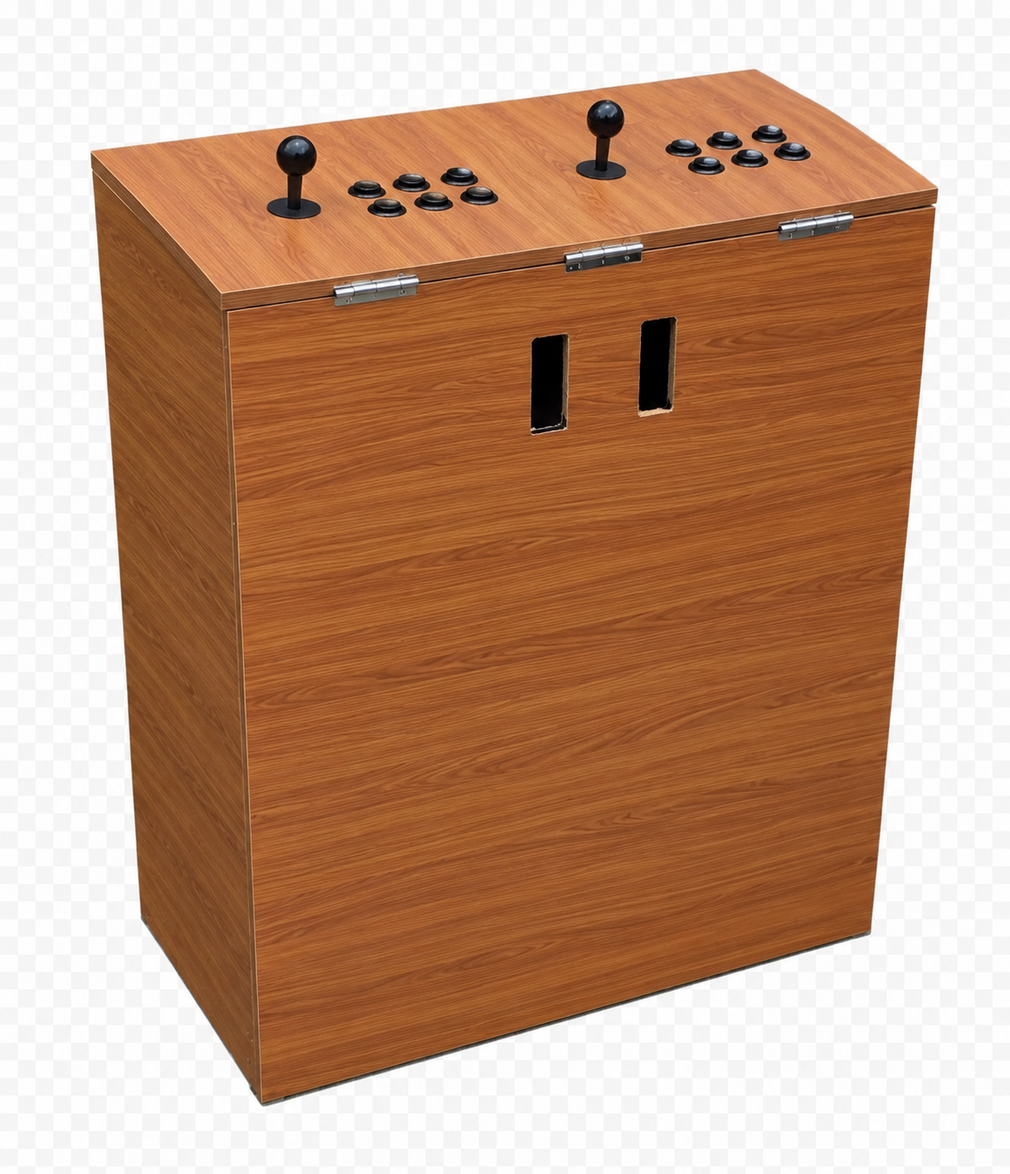
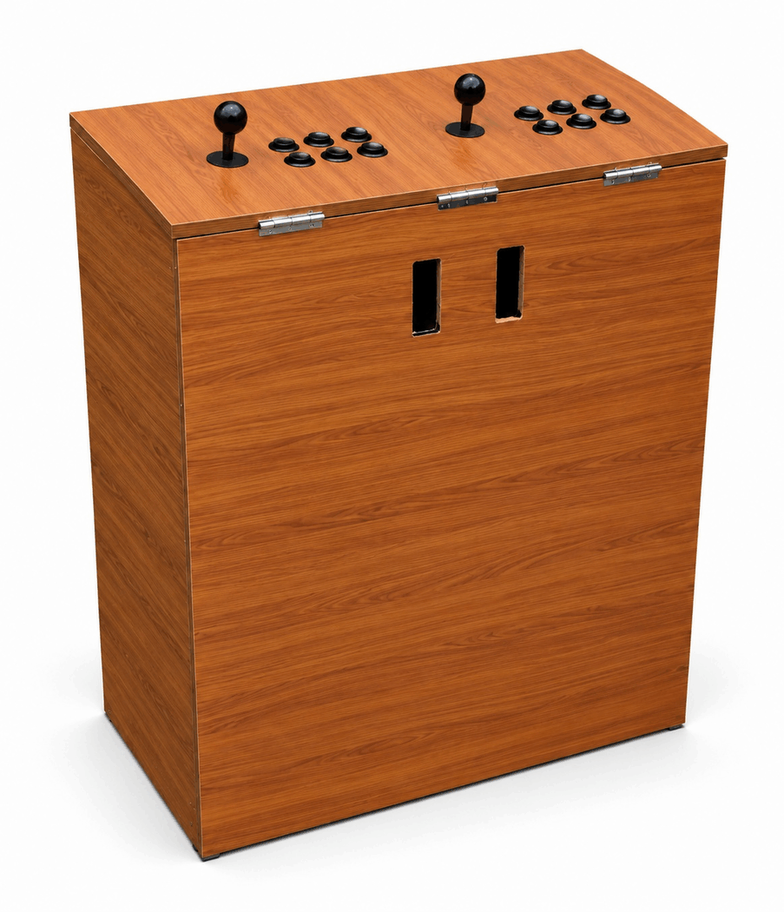
Publish themed mascot outfits and clean arcade box photos

diff --git a/index.html b/index.html
@@ -1197,7 +1197,7 @@ img,canvas{
 
 </style>
 
-<script src="store-navigation.js"></script><script src="cpu-images.js"></script><script src="category-data.js?v=20261120-catalog-clean"></script><link rel="stylesheet" href="category-pages.css?v=20261120-game-styles"><style id="gp-typed-quantity-css">
+<script src="store-navigation.js"></script><script src="cpu-images.js"></script><script src="category-data.js?v=20261120-catalog-clean"></script><link rel="stylesheet" href="category-pages.css?v=20261120-product-ads"><style id="gp-typed-quantity-css">
 #products .product .qty,#products .product:not(.has-variants) .qty,#products .product .variant-row .qty{width:124px!important;min-width:124px!important;max-width:124px!important;display:flex!important;flex-wrap:nowrap!important;align-items:center!important;justify-content:space-between!important;gap:3px!important}
 #products .product .qty input.gp-typed-quantity{appearance:textfield;-moz-appearance:textfield;box-sizing:border-box!important;width:50px!important;min-width:42px!important;max-width:50px!important;height:32px!important;flex:1 1 auto!important;margin:0!important;padding:2px!important;text-align:center;font-size:14px!important;font-weight:800!important;border:1px solid #9ca3af!important;border-radius:8px!important;background:#fff!important;color:#111827!important;line-height:1!important}
 #products .product .qty input.gp-typed-quantity::-webkit-inner-spin-button,#products .product .qty input.gp-typed-quantity::-webkit-outer-spin-button{-webkit-appearance:none;margin:0}
@@ -4389,5 +4389,5 @@ document.getElementById("optionalGameModal")?.addEventListener("click",function(
 
 
 
-<script src="setup-data.js?v=20261101-one-batocera-1999"></script><script src="setup-engine.js?v=20261101-sandisk-ultra-supplied-photo"></script><script src="stock-rules.js?v=20261120-stock-order"></script><script src="stock-ui.js?v=20261120-stock-final"></script><script src="configured-cart.js?v=20261101-batocera-1999"></script><script src="category-pages.js?v=20261120-game-styles"></script><script src="site-navigation.js?v=20261115-responsive-cards"></script><script src="shared-store.js?v=20261115-responsive-cards"></script><script src="https://gamesplanet13.github.io/arcade-accessories-/ps2-style-footer.js?v=20261016-ps2-view"></script></body>
+<script src="setup-data.js?v=20261101-one-batocera-1999"></script><script src="setup-engine.js?v=20261101-sandisk-ultra-supplied-photo"></script><script src="stock-rules.js?v=20261120-stock-order"></script><script src="stock-ui.js?v=20261120-stock-final"></script><script src="configured-cart.js?v=20261101-batocera-1999"></script><script src="category-pages.js?v=20261120-product-ads"></script><script src="site-navigation.js?v=20261115-responsive-cards"></script><script src="shared-store.js?v=20261115-responsive-cards"></script><script src="https://gamesplanet13.github.io/arcade-accessories-/ps2-style-footer.js?v=20261016-ps2-view"></script></body>
 </html>

diff --git a/arcade-box.html b/arcade-box.html
@@ -1197,7 +1197,7 @@ img,canvas{
 
 </style>
 
-<script src="store-navigation.js"></script><script src="cpu-images.js"></script><script src="category-data.js?v=20261120-catalog-clean"></script><link rel="stylesheet" href="category-pages.css?v=20261120-game-styles"><style id="compact-variant-final-v3">
+<script src="store-navigation.js"></script><script src="cpu-images.js"></script><script src="category-data.js?v=20261120-catalog-clean"></script><link rel="stylesheet" href="category-pages.css?v=20261120-product-ads"><style id="compact-variant-final-v3">
 #products .product .variant-row{display:grid!important;grid-template-columns:minmax(0,1fr) 96px!important;grid-template-rows:auto!important;align-items:center!important;gap:6px!important;padding:6px!important;margin:0!important;min-height:44px!important;height:auto!important}
 #products .product .variant-label{display:grid!important;grid-template-columns:32px minmax(0,1fr)!important;gap:7px!important;align-items:center!important;min-width:0!important;width:100%!important}
 #products .product .variant-thumb{position:static!important;width:32px!important;height:32px!important;max-width:32px!important;margin:0!important;object-fit:contain!important}
@@ -4342,5 +4342,5 @@ document.getElementById("optionalGameModal")?.addEventListener("click",function(
 
 
 
-<script src="setup-data.js?v=20261101-storage-optional"></script><script src="setup-engine.js?v=20261101-sandisk-ultra-supplied-photo"></script><script src="stock-rules.js?v=20261120-stock-order"></script><script src="stock-ui.js?v=20261120-stock-order"></script><script src="configured-cart.js?v=20261101-batocera-1999"></script><script src="category-pages.js?v=20261120-game-styles"></script><script src="site-navigation.js?v=20261102-ps2fmcb-simple"></script><script src="https://gamesplanet13.github.io/arcade-accessories-/ps2-style-footer.js?v=20261016-ps2-view"></script></body>
+<script src="setup-data.js?v=20261101-storage-optional"></script><script src="setup-engine.js?v=20261101-sandisk-ultra-supplied-photo"></script><script src="stock-rules.js?v=20261120-stock-order"></script><script src="stock-ui.js?v=20261120-stock-order"></script><script src="configured-cart.js?v=20261101-batocera-1999"></script><script src="category-pages.js?v=20261120-product-ads"></script><script src="site-navigation.js?v=20261102-ps2fmcb-simple"></script><script src="https://gamesplanet13.github.io/arcade-accessories-/ps2-style-footer.js?v=20261016-ps2-view"></script></body>
 </html>

diff --git a/new.html b/new.html
@@ -1197,7 +1197,7 @@ img,canvas{
 
 </style>
 
-<link rel="stylesheet" href="storefront.css"><script src="store-navigation.js"></script><script src="cpu-images.js"></script><script src="category-data.js?v=20261120-catalog-clean"></script><link rel="stylesheet" href="category-pages.css?v=20261120-game-styles"><link rel="stylesheet" href="layout-safety.css"><style id="modern-large-mobile">
+<link rel="stylesheet" href="storefront.css"><script src="store-navigation.js"></script><script src="cpu-images.js"></script><script src="category-data.js?v=20261120-catalog-clean"></script><link rel="stylesheet" href="category-pages.css?v=20261120-product-ads"><link rel="stylesheet" href="layout-safety.css"><style id="modern-large-mobile">
 body.modern-view{overflow-x:hidden}
 body.modern-view #products .category-products{display:grid!important;grid-template-columns:repeat(3,minmax(0,1fr))!important;gap:16px!important;padding:12px!important}
 body.modern-view #products .product,body.modern-view #products .product:not(.has-variants){display:flex!important;flex-direction:column!important;align-items:stretch!important;gap:12px!important;padding:16px!important;min-width:0!important;min-height:0!important;border-radius:14px!important}
@@ -4359,5 +4359,5 @@ document.getElementById("optionalGameModal")?.addEventListener("click",function(
 
 
 
-<script src="storefront.js"></script><script src="setup-data.js"></script><script src="setup-engine.js?v=20261019-arcade-cpu"></script><script src="stock-rules.js?v=20261120-stock-order"></script><script src="stock-ui.js?v=20261120-stock-final"></script><script src="configured-cart.js?v=compact-final-v3"></script><script src="category-pages.js?v=20261120-game-styles"></script><script src="site-navigation.js?v=20261115-responsive-cards"></script><script src="https://gamesplanet13.github.io/arcade-accessories-/ps2-style-footer.js?v=20261016-ps2-view"></script></body>
+<script src="storefront.js"></script><script src="setup-data.js"></script><script src="setup-engine.js?v=20261019-arcade-cpu"></script><script src="stock-rules.js?v=20261120-stock-order"></script><script src="stock-ui.js?v=20261120-stock-final"></script><script src="configured-cart.js?v=compact-final-v3"></script><script src="category-pages.js?v=20261120-product-ads"></script><script src="site-navigation.js?v=20261115-responsive-cards"></script><script src="https://gamesplanet13.github.io/arcade-accessories-/ps2-style-footer.js?v=20261016-ps2-view"></script></body>
 </html>

diff --git a/gaming.html b/gaming.html
@@ -1197,7 +1197,7 @@ img,canvas{
 
 </style>
 
-<script src="store-navigation.js"></script><script src="cpu-images.js"></script><script src="category-data.js?v=20261120-catalog-clean"></script><link rel="stylesheet" href="category-pages.css?v=20261120-game-styles"><style id="compact-variant-final-v3">
+<script src="store-navigation.js"></script><script src="cpu-images.js"></script><script src="category-data.js?v=20261120-catalog-clean"></script><link rel="stylesheet" href="category-pages.css?v=20261120-product-ads"><style id="compact-variant-final-v3">
 #products .product .variant-row{display:grid!important;grid-template-columns:minmax(0,1fr) 96px!important;grid-template-rows:auto!important;align-items:center!important;gap:6px!important;padding:6px!important;margin:0!important;min-height:44px!important;height:auto!important}
 #products .product .variant-label{display:grid!important;grid-template-columns:32px minmax(0,1fr)!important;gap:7px!important;align-items:center!important;min-width:0!important;width:100%!important}
 #products .product .variant-thumb{position:static!important;width:32px!important;height:32px!important;max-width:32px!important;margin:0!important;object-fit:contain!important}
@@ -4261,5 +4261,5 @@ document.getElementById("optionalGameModal")?.addEventListener("click",function(
 
 
 
-<script src="setup-data.js"></script><script src="setup-engine.js?v=20261101-sandisk-ultra-supplied-photo"></script><script src="stock-rules.js?v=20261120-stock-order"></script><script src="stock-ui.js?v=20261120-stock-order"></script><script src="configured-cart.js?v=compact-final-v3"></script><script src="category-pages.js?v=20261120-game-styles"></script><script src="site-navigation.js?v=20261102-ps2fmcb-simple"></script><script src="https://gamesplanet13.github.io/arcade-accessories-/ps2-style-footer.js?v=20261016-ps2-view"></script></body>
+<script src="setup-data.js"></script><script src="setup-engine.js?v=20261101-sandisk-ultra-supplied-photo"></script><script src="stock-rules.js?v=20261120-stock-order"></script><script src="stock-ui.js?v=20261120-stock-order"></script><script src="configured-cart.js?v=compact-final-v3"></script><script src="category-pages.js?v=20261120-product-ads"></script><script src="site-navigation.js?v=20261102-ps2fmcb-simple"></script><script src="https://gamesplanet13.github.io/arcade-accessories-/ps2-style-footer.js?v=20261016-ps2-view"></script></body>
 </html>

diff --git a/arcade.html b/arcade.html
@@ -1197,7 +1197,7 @@ img,canvas{
 
 </style>
 
-<script src="store-navigation.js"></script><script src="cpu-images.js"></script><script src="category-data.js?v=20261120-catalog-clean"></script><link rel="stylesheet" href="category-pages.css?v=20261120-game-styles"><style id="compact-variant-final-v3">
+<script src="store-navigation.js"></script><script src="cpu-images.js"></script><script src="category-data.js?v=20261120-catalog-clean"></script><link rel="stylesheet" href="category-pages.css?v=20261120-product-ads"><style id="compact-variant-final-v3">
 #products .product .variant-row{display:grid!important;grid-template-columns:minmax(0,1fr) 96px!important;grid-template-rows:auto!important;align-items:center!important;gap:6px!important;padding:6px!important;margin:0!important;min-height:44px!important;height:auto!important}
 #products .product .variant-label{display:grid!important;grid-template-columns:32px minmax(0,1fr)!important;gap:7px!important;align-items:center!important;min-width:0!important;width:100%!important}
 #products .product .variant-thumb{position:static!important;width:32px!important;height:32px!important;max-width:32px!important;margin:0!important;object-fit:contain!important}
@@ -4336,5 +4336,5 @@ document.getElementById("optionalGameModal")?.addEventListener("click",function(
 
 
 
-<script src="setup-data.js"></script><script src="setup-engine.js?v=20261101-sandisk-ultra-supplied-photo"></script><script src="stock-rules.js?v=20261120-stock-order"></script><script src="stock-ui.js?v=20261120-stock-final"></script><script src="configured-cart.js?v=20261021-hdmi"></script><script src="category-pages.js?v=20261120-game-styles"></script><script src="site-navigation.js?v=20261115-responsive-cards"></script><script src="https://gamesplanet13.github.io/arcade-accessories-/ps2-style-footer.js?v=20261016-ps2-view"></script></body>
+<script src="setup-data.js"></script><script src="setup-engine.js?v=20261101-sandisk-ultra-supplied-photo"></script><script src="stock-rules.js?v=20261120-stock-order"></script><script src="stock-ui.js?v=20261120-stock-final"></script><script src="configured-cart.js?v=20261021-hdmi"></script><script src="category-pages.js?v=20261120-product-ads"></script><script src="site-navigation.js?v=20261115-responsive-cards"></script><script src="https://gamesplanet13.github.io/arcade-accessories-/ps2-style-footer.js?v=20261016-ps2-view"></script></body>
 </html>

diff --git a/consoles.html b/consoles.html
@@ -1197,7 +1197,7 @@ img,canvas{
 
 </style>
 
-<script src="store-navigation.js"></script><script src="cpu-images.js"></script><script src="category-data.js?v=20261120-catalog-clean"></script><link rel="stylesheet" href="category-pages.css?v=20261120-game-styles"><style id="compact-variant-final-v3">
+<script src="store-navigation.js"></script><script src="cpu-images.js"></script><script src="category-data.js?v=20261120-catalog-clean"></script><link rel="stylesheet" href="category-pages.css?v=20261120-product-ads"><style id="compact-variant-final-v3">
 #products .product .variant-row{display:grid!important;grid-template-columns:minmax(0,1fr) 96px!important;grid-template-rows:auto!important;align-items:center!important;gap:6px!important;padding:6px!important;margin:0!important;min-height:44px!important;height:auto!important}
 #products .product .variant-label{display:grid!important;grid-template-columns:32px minmax(0,1fr)!important;gap:7px!important;align-items:center!important;min-width:0!important;width:100%!important}
 #products .product .variant-thumb{position:static!important;width:32px!important;height:32px!important;max-width:32px!important;margin:0!important;object-fit:contain!important}
@@ -4277,5 +4277,5 @@ document.getElementById("optionalGameModal")?.addEventListener("click",function(
 
 
 
-<script src="setup-data.js"></script><script src="setup-engine.js?v=20261101-storage-optional"></script><script src="stock-rules.js?v=20261120-stock-order"></script><script src="stock-ui.js?v=20261120-stock-order"></script><script src="configured-cart.js?v=20261028-free-console-games"></script><script src="category-pages.js?v=20261120-game-styles"></script><script src="site-navigation.js?v=20261102-ps2fmcb-simple"></script><script src="https://gamesplanet13.github.io/arcade-accessories-/ps2-style-footer.js?v=20261016-ps2-view"></script></body>
+<script src="setup-data.js"></script><script src="setup-engine.js?v=20261101-storage-optional"></script><script src="stock-rules.js?v=20261120-stock-order"></script><script src="stock-ui.js?v=20261120-stock-order"></script><script src="configured-cart.js?v=20261028-free-console-games"></script><script src="category-pages.js?v=20261120-product-ads"></script><script src="site-navigation.js?v=20261102-ps2fmcb-simple"></script><script src="https://gamesplanet13.github.io/arcade-accessories-/ps2-style-footer.js?v=20261016-ps2-view"></script></body>
 </html>

diff --git a/new-gaming.html b/new-gaming.html
@@ -1197,7 +1197,7 @@ img,canvas{
 
 </style>
 
-<link rel="stylesheet" href="storefront.css"><script src="store-navigation.js"></script><script src="cpu-images.js"></script><script src="category-data.js?v=20261120-catalog-clean"></script><link rel="stylesheet" href="category-pages.css?v=20261120-game-styles"><style id="modern-large-mobile">
+<link rel="stylesheet" href="storefront.css"><script src="store-navigation.js"></script><script src="cpu-images.js"></script><script src="category-data.js?v=20261120-catalog-clean"></script><link rel="stylesheet" href="category-pages.css?v=20261120-product-ads"><style id="modern-large-mobile">
 body.modern-view{overflow-x:hidden}
 body.modern-view #products .category-products{display:grid!important;grid-template-columns:repeat(3,minmax(0,1fr))!important;gap:16px!important;padding:12px!important}
 body.modern-view #products .product,body.modern-view #products .product:not(.has-variants){display:flex!important;flex-direction:column!important;align-items:stretch!important;gap:12px!important;padding:16px!important;min-width:0!important;min-height:0!important;border-radius:14px!important}
@@ -4276,5 +4276,5 @@ document.getElementById("optionalGameModal")?.addEventListener("click",function(
 
 
 
-<script src="storefront.js"></script><script src="setup-data.js"></script><script src="setup-engine.js?v=20261101-sandisk-ultra-supplied-photo"></script><script src="stock-rules.js?v=20261120-stock-order"></script><script src="stock-ui.js?v=20261120-stock-order"></script><script src="configured-cart.js?v=compact-final-v3"></script><script src="category-pages.js?v=20261120-game-styles"></script><script src="site-navigation.js?v=20261025-products-final"></script><script src="https://gamesplanet13.github.io/arcade-accessories-/ps2-style-footer.js?v=20261016-ps2-view"></script></body>
+<script src="storefront.js"></script><script src="setup-data.js"></script><script src="setup-engine.js?v=20261101-sandisk-ultra-supplied-photo"></script><script src="stock-rules.js?v=20261120-stock-order"></script><script src="stock-ui.js?v=20261120-stock-order"></script><script src="configured-cart.js?v=compact-final-v3"></script><script src="category-pages.js?v=20261120-product-ads"></script><script src="site-navigation.js?v=20261025-products-final"></script><script src="https://gamesplanet13.github.io/arcade-accessories-/ps2-style-footer.js?v=20261016-ps2-view"></script></body>
 </html>

diff --git a/new-arcade.html b/new-arcade.html
@@ -1197,7 +1197,7 @@ img,canvas{
 
 </style>
 
-<link rel="stylesheet" href="storefront.css"><script src="store-navigation.js"></script><script src="cpu-images.js"></script><script src="category-data.js?v=20261120-catalog-clean"></script><link rel="stylesheet" href="category-pages.css?v=20261120-game-styles"><style id="modern-large-mobile">
+<link rel="stylesheet" href="storefront.css"><script src="store-navigation.js"></script><script src="cpu-images.js"></script><script src="category-data.js?v=20261120-catalog-clean"></script><link rel="stylesheet" href="category-pages.css?v=20261120-product-ads"><style id="modern-large-mobile">
 body.modern-view{overflow-x:hidden}
 body.modern-view #products .category-products{display:grid!important;grid-template-columns:repeat(3,minmax(0,1fr))!important;gap:16px!important;padding:12px!important}
 body.modern-view #products .product,body.modern-view #products .product:not(.has-variants){display:flex!important;flex-direction:column!important;align-items:stretch!important;gap:12px!important;padding:16px!important;min-width:0!important;min-height:0!important;border-radius:14px!important}
@@ -4351,5 +4351,5 @@ document.getElementById("optionalGameModal")?.addEventListener("click",function(
 
 
 
-<script src="storefront.js"></script><script src="setup-data.js"></script><script src="setup-engine.js?v=20261101-sandisk-ultra-supplied-photo"></script><script src="stock-rules.js?v=20261120-stock-order"></script><script src="stock-ui.js?v=20261120-stock-final"></script><script src="configured-cart.js?v=20261021-hdmi"></script><script src="category-pages.js?v=20261120-game-styles"></script><script src="site-navigation.js?v=20261115-responsive-cards"></script><script src="https://gamesplanet13.github.io/arcade-accessories-/ps2-style-footer.js?v=20261016-ps2-view"></script></body>
+<script src="storefront.js"></script><script src="setup-data.js"></script><script src="setup-engine.js?v=20261101-sandisk-ultra-supplied-photo"></script><script src="stock-rules.js?v=20261120-stock-order"></script><script src="stock-ui.js?v=20261120-stock-final"></script><script src="configured-cart.js?v=20261021-hdmi"></script><script src="category-pages.js?v=20261120-product-ads"></script><script src="site-navigation.js?v=20261115-responsive-cards"></script><script src="https://gamesplanet13.github.io/arcade-accessories-/ps2-style-footer.js?v=20261016-ps2-view"></script></body>
 </html>

diff --git a/cpu.html b/cpu.html
@@ -1197,7 +1197,7 @@ img,canvas{
 
 </style>
 
-<script src="store-navigation.js"></script><script src="cpu-images.js"></script><script src="category-data.js?v=20261120-catalog-clean"></script><link rel="stylesheet" href="category-pages.css?v=20261120-game-styles"><style id="compact-variant-final-v3">
+<script src="store-navigation.js"></script><script src="cpu-images.js"></script><script src="category-data.js?v=20261120-catalog-clean"></script><link rel="stylesheet" href="category-pages.css?v=20261120-product-ads"><style id="compact-variant-final-v3">
 #products .product .variant-row{display:grid!important;grid-template-columns:minmax(0,1fr) 96px!important;grid-template-rows:auto!important;align-items:center!important;gap:6px!important;padding:6px!important;margin:0!important;min-height:44px!important;height:auto!important}
 #products .product .variant-label{display:grid!important;grid-template-columns:32px minmax(0,1fr)!important;gap:7px!important;align-items:center!important;min-width:0!important;width:100%!important}
 #products .product .variant-thumb{position:static!important;width:32px!important;height:32px!important;max-width:32px!important;margin:0!important;object-fit:contain!important}
@@ -4261,5 +4261,5 @@ document.getElementById("optionalGameModal")?.addEventListener("click",function(
 
 
 
-<script src="setup-data.js"></script><script src="setup-engine.js?v=20261101-sandisk-ultra-supplied-photo"></script><script src="stock-rules.js?v=20261120-stock-order"></script><script src="stock-ui.js?v=20261120-stock-order"></script><script src="configured-cart.js?v=20261021-hdmi"></script><script src="category-pages.js?v=20261120-game-styles"></script><script src="site-navigation.js?v=20261102-ps2fmcb-simple"></script><script src="https://gamesplanet13.github.io/arcade-accessories-/ps2-style-footer.js?v=20261016-ps2-view"></script></body>
+<script src="setup-data.js"></script><script src="setup-engine.js?v=20261101-sandisk-ultra-supplied-photo"></script><script src="stock-rules.js?v=20261120-stock-order"></script><script src="stock-ui.js?v=20261120-stock-order"></script><script src="configured-cart.js?v=20261021-hdmi"></script><script src="category-pages.js?v=20261120-product-ads"></script><script src="site-navigation.js?v=20261102-ps2fmcb-simple"></script><script src="https://gamesplanet13.github.io/arcade-accessories-/ps2-style-footer.js?v=20261016-ps2-view"></script></body>
 </html>

diff --git a/usb-storage.html b/usb-storage.html
@@ -1197,7 +1197,7 @@ img,canvas{
 
 </style>
 
-<script src="store-navigation.js"></script><script src="cpu-images.js"></script><script src="category-data.js?v=20261120-catalog-clean"></script><link rel="stylesheet" href="category-pages.css?v=20261120-game-styles"><style id="compact-variant-final-v3">
+<script src="store-navigation.js"></script><script src="cpu-images.js"></script><script src="category-data.js?v=20261120-catalog-clean"></script><link rel="stylesheet" href="category-pages.css?v=20261120-product-ads"><style id="compact-variant-final-v3">
 #products .product .variant-row{display:grid!important;grid-template-columns:minmax(0,1fr) 96px!important;grid-template-rows:auto!important;align-items:center!important;gap:6px!important;padding:6px!important;margin:0!important;min-height:44px!important;height:auto!important}
 #products .product .variant-label{display:grid!important;grid-template-columns:32px minmax(0,1fr)!important;gap:7px!important;align-items:center!important;min-width:0!important;width:100%!important}
 #products .product .variant-thumb{position:static!important;width:32px!important;height:32px!important;max-width:32px!important;margin:0!important;object-fit:contain!important}
@@ -4261,5 +4261,5 @@ document.getElementById("optionalGameModal")?.addEventListener("click",function(
 
 
 
-<script src="setup-data.js"></script><script src="setup-engine.js?v=20261101-sandisk-ultra-supplied-photo"></script><script src="stock-rules.js?v=20261120-stock-order"></script><script src="stock-ui.js?v=20261120-stock-order"></script><script src="configured-cart.js?v=20261021-hdmi"></script><script src="category-pages.js?v=20261120-game-styles"></script><script src="site-navigation.js?v=20261025-products-final"></script><script src="https://gamesplanet13.github.io/arcade-accessories-/ps2-style-footer.js?v=20261016-ps2-view"></script></body>
+<script src="setup-data.js"></script><script src="setup-engine.js?v=20261101-sandisk-ultra-supplied-photo"></script><script src="stock-rules.js?v=20261120-stock-order"></script><script src="stock-ui.js?v=20261120-stock-order"></script><script src="configured-cart.js?v=20261021-hdmi"></script><script src="category-pages.js?v=20261120-product-ads"></script><script src="site-navigation.js?v=20261025-products-final"></script><script src="https://gamesplanet13.github.io/arcade-accessories-/ps2-style-footer.js?v=20261016-ps2-view"></script></body>
 </html>

diff --git a/new-cpu.html b/new-cpu.html
@@ -1197,7 +1197,7 @@ img,canvas{
 
 </style>
 
-<link rel="stylesheet" href="storefront.css"><script src="store-navigation.js"></script><script src="cpu-images.js"></script><script src="category-data.js?v=20261120-catalog-clean"></script><link rel="stylesheet" href="category-pages.css?v=20261120-game-styles"><style id="modern-large-mobile">
+<link rel="stylesheet" href="storefront.css"><script src="store-navigation.js"></script><script src="cpu-images.js"></script><script src="category-data.js?v=20261120-catalog-clean"></script><link rel="stylesheet" href="category-pages.css?v=20261120-product-ads"><style id="modern-large-mobile">
 body.modern-view{overflow-x:hidden}
 body.modern-view #products .category-products{display:grid!important;grid-template-columns:repeat(3,minmax(0,1fr))!important;gap:16px!important;padding:12px!important}
 body.modern-view #products .product,body.modern-view #products .product:not(.has-variants){display:flex!important;flex-direction:column!important;align-items:stretch!important;gap:12px!important;padding:16px!important;min-width:0!important;min-height:0!important;border-radius:14px!important}
@@ -4276,5 +4276,5 @@ document.getElementById("optionalGameModal")?.addEventListener("click",function(
 
 
 
-<script src="storefront.js"></script><script src="setup-data.js"></script><script src="setup-engine.js?v=20261101-sandisk-ultra-supplied-photo"></script><script src="stock-rules.js?v=20261120-stock-order"></script><script src="stock-ui.js?v=20261120-stock-order"></script><script src="configured-cart.js?v=20261021-hdmi"></script><script src="category-pages.js?v=20261120-game-styles"></script><script src="site-navigation.js?v=20261025-products-final"></script><script src="https://gamesplanet13.github.io/arcade-accessories-/ps2-style-footer.js?v=20261016-ps2-view"></script></body>
+<script src="storefront.js"></script><script src="setup-data.js"></script><script src="setup-engine.js?v=20261101-sandisk-ultra-supplied-photo"></script><script src="stock-rules.js?v=20261120-stock-order"></script><script src="stock-ui.js?v=20261120-stock-order"></script><script src="configured-cart.js?v=20261021-hdmi"></script><script src="category-pages.js?v=20261120-product-ads"></script><script src="site-navigation.js?v=20261025-products-final"></script><script src="https://gamesplanet13.github.io/arcade-accessories-/ps2-style-footer.js?v=20261016-ps2-view"></script></body>
 </html>

diff --git a/mobile.html b/mobile.html
@@ -1197,7 +1197,7 @@ img,canvas{
 
 </style>
 
-<script src="store-navigation.js"></script><script src="cpu-images.js"></script><script src="category-data.js?v=20261120-catalog-clean"></script><link rel="stylesheet" href="category-pages.css?v=20261120-game-styles"><style id="compact-variant-final-v3">
+<script src="store-navigation.js"></script><script src="cpu-images.js"></script><script src="category-data.js?v=20261120-catalog-clean"></script><link rel="stylesheet" href="category-pages.css?v=20261120-product-ads"><style id="compact-variant-final-v3">
 #products .product .variant-row{display:grid!important;grid-template-columns:minmax(0,1fr) 96px!important;grid-template-rows:auto!important;align-items:center!important;gap:6px!important;padding:6px!important;margin:0!important;min-height:44px!important;height:auto!important}
 #products .product .variant-label{display:grid!important;grid-template-columns:32px minmax(0,1fr)!important;gap:7px!important;align-items:center!important;min-width:0!important;width:100%!important}
 #products .product .variant-thumb{position:static!important;width:32px!important;height:32px!important;max-width:32px!important;margin:0!important;object-fit:contain!important}
@@ -4266,5 +4266,5 @@ document.getElementById("optionalGameModal")?.addEventListener("click",function(
 
 
 
-<script src="setup-data.js"></script><script src="setup-engine.js?v=20261101-storage-optional"></script><script src="stock-rules.js?v=20261120-stock-order"></script><script src="stock-ui.js?v=20261120-stock-order"></script><script src="configured-cart.js?v=compact-final-v3"></script><script src="category-pages.js?v=20261120-game-styles"></script><script src="site-navigation.js?v=20261108-tripod-stock-fix"></script><script src="https://gamesplanet13.github.io/arcade-accessories-/ps2-style-footer.js?v=20261016-ps2-view"></script></body>
+<script src="setup-data.js"></script><script src="setup-engine.js?v=20261101-storage-optional"></script><script src="stock-rules.js?v=20261120-stock-order"></script><script src="stock-ui.js?v=20261120-stock-order"></script><script src="configured-cart.js?v=compact-final-v3"></script><script src="category-pages.js?v=20261120-product-ads"></script><script src="site-navigation.js?v=20261108-tripod-stock-fix"></script><script src="https://gamesplanet13.github.io/arcade-accessories-/ps2-style-footer.js?v=20261016-ps2-view"></script></body>
 </html>
